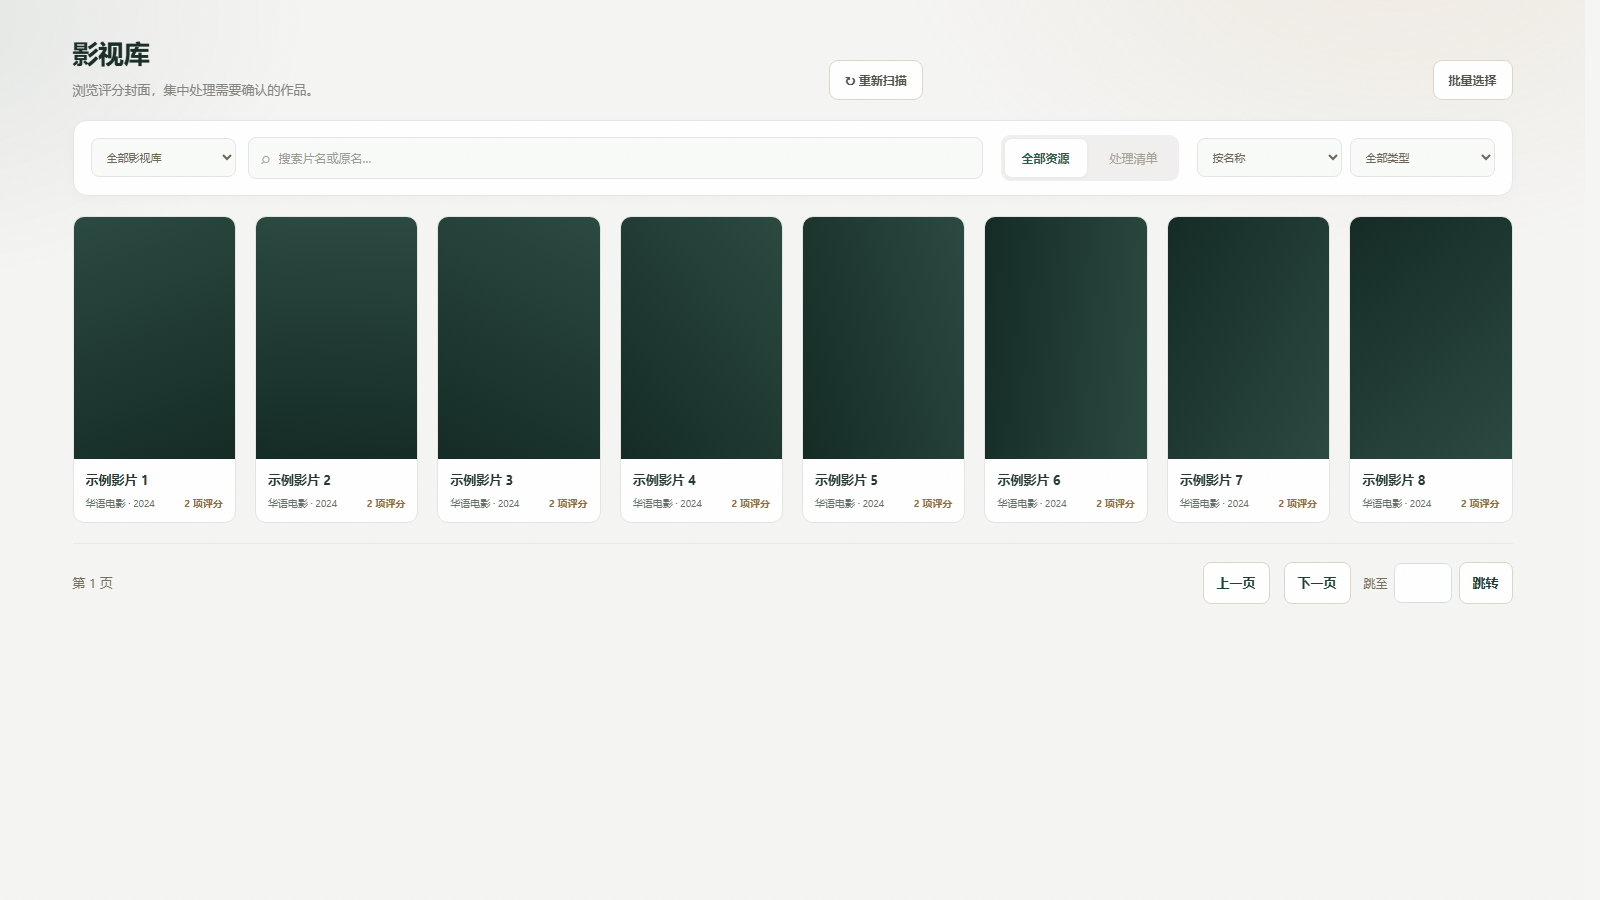
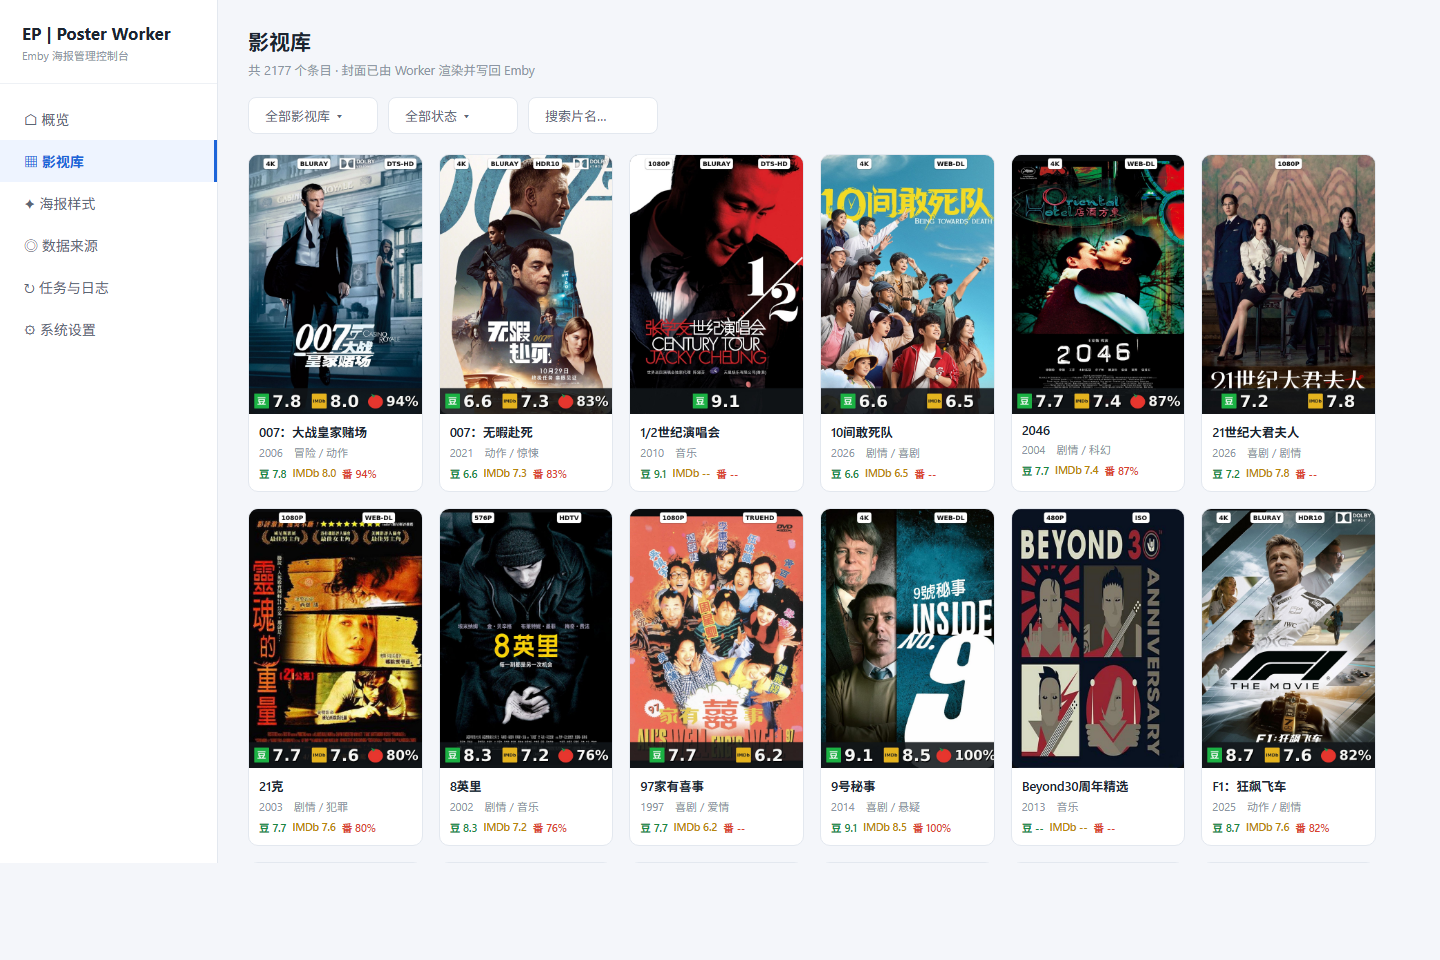
docs: real library page screenshot with live data and dolby-dolby posters
- Library view now shows 18 real items (cover, badge row, three-source
  ratings) instead of the placeholder mock.
- Poster previews all feature Dolby Vision / Dolby Atmos badges per
  feedback, led by The Wandering Earth II.

diff --git a/README.md b/README.md
@@ -9,7 +9,7 @@
 **渲染后的海报**——顶部画质徽章，底部三源评分条：
 
 <p align="center">
-  <img src="docs/screenshots/poster-sample.jpg" width="300" alt="渲染后的海报：4K REMUX HDR10 DTS-HD 徽章，豆瓣 8.4 / IMDb 8.0 / 烂番茄 91%">
+  <img src="docs/screenshots/poster-sample.jpg" width="300" alt="渲染后的海报：4K REMUX DOLBY VISION DOLBY ATMOS 徽章，豆瓣 8.3 / IMDb 6.7 / 烂番茄 83%">
 </p>
 
 **同一个条目，处理前后**——原图先缓存再叠加，重绘永远基于干净原图，不会越叠越厚：
@@ -19,13 +19,13 @@
   <img src="docs/screenshots/poster-sample.jpg" width="250" alt="渲染后：徽章与评分就位">
 </p>
 
-**徽章和评分能有多满**——4K 原盘 + HDR/杜比 + 全景声，三源评分一字排开，全部来自真实媒体流：
+**杜比视界 + 杜比全景声的双杜比组合**——视频和音频的杜比标识各自独立判定，HDR10 + 全景声、视界 + TrueHD 等混搭也各占其位：
 
 <p align="center">
-  <img src="docs/screenshots/poster-oppenheimer.jpg" width="185" alt="奥本海默：4K REMUX HDR10 DTS-HD，豆 8.8 / IMDb 8.2 / 番茄 93%">
+  <img src="docs/screenshots/poster-nezha.jpg" width="185" alt="哪吒之魔童降世：4K REMUX DOLBY VISION ATMOS，豆 8.4 / IMDb 7.3 / 番茄 88%">
+  <img src="docs/screenshots/poster-yipman.jpg" width="185" alt="叶问：4K REMUX DOLBY VISION ATMOS，豆 7.8 / IMDb 8.0 / 番茄 86%">
+  <img src="docs/screenshots/poster-constantine.jpg" width="185" alt="康斯坦丁：4K REMUX DOLBY VISION ATMOS，豆 8.1 / IMDb 7.0 / 番茄 46%">
   <img src="docs/screenshots/poster-gump.jpg" width="185" alt="阿甘正传：4K REMUX HDR10 DOLBY ATMOS，豆 9.5 / IMDb 8.8 / 番茄 75%">
-  <img src="docs/screenshots/poster-avatar2.jpg" width="185" alt="阿凡达水之道：4K REMUX DOLBY VISION TRUEHD，豆 7.8 / IMDb 7.5 / 番茄 76%">
-  <img src="docs/screenshots/poster-bohemian.jpg" width="185" alt="波西米亚狂想曲：4K REMUX HDR10 DTS-HD，豆 8.6 / IMDb 7.9 / 番茄 60%">
   <img src="docs/screenshots/poster-newsroom.jpg" width="185" alt="新闻编辑室：4K WEB-DL，剧集同样适用">
 </p>
 
